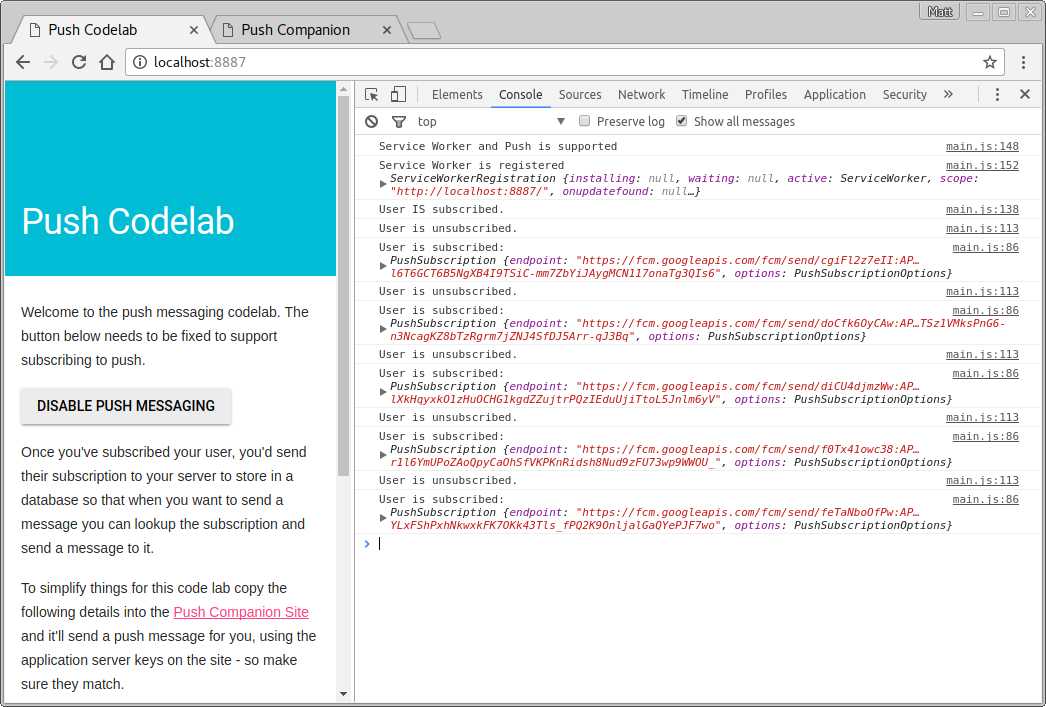
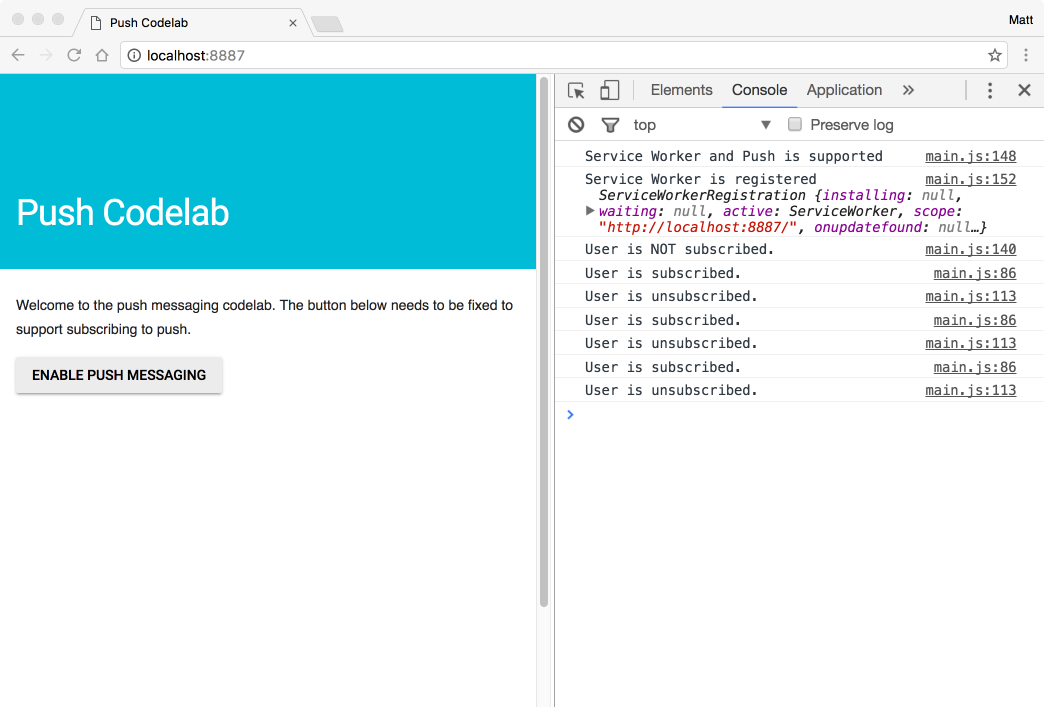
Removing printing of subscription to avoid developer confusion

Changed region(s): [[0.0, 0.0, 1.0, 1.0]]

diff --git a/src/content/en/fundamentals/getting-started/codelabs/push-notifications/index.md b/src/content/en/fundamentals/getting-started/codelabs/push-notifications/index.md
@@ -58,11 +58,11 @@ While you're free to use your own web server, this codelab is designed to work w
 
 [Link](https://chrome.google.com/webstore/detail/web-server-for-chrome/ofhbbkphhbklhfoeikjpcbhemlocgigb)
 
-After installing the Web Server for Chrome app, click on the Apps shortcut on the bookmarks bar: 
+After installing the Web Server for Chrome app, click on the Apps shortcut on the bookmarks bar:
 
 ![a80b29d5e878df22.png](img/a80b29d5e878df22.png)
 
-In the ensuing window, click on the Web Server icon: 
+In the ensuing window, click on the Web Server icon:
 
 ![dc07bbc9fcfe7c5b.png](img/dc07bbc9fcfe7c5b.png)
 
@@ -270,7 +270,7 @@ function subscribeUser() {
     applicationServerKey: applicationServerKey
   })
   .then(function(subscription) {
-    console.log('User is subscribed:', subscription);
+    console.log('User is subscribed.');
 
     updateSubscriptionOnServer(subscription);
 
@@ -314,7 +314,7 @@ swRegistration.pushManager.subscribe({
   applicationServerKey: applicationServerKey
 })
 .then(function(subscription) {
-  console.log('User is subscribed:', subscription);
+  console.log('User is subscribed.');
 
   updateSubscriptionOnServer(subscription);
 
@@ -356,7 +356,7 @@ If you go back to your web app and try clicking the button you should see a perm
 
 ![5b8a7e9905f2237b.png](img/5b8a7e9905f2237b.png)
 
-If you grant the permission you should see the console print `User is subscribed:` with the `PushSubscription`, the button's text will change to ‘Disable Push Messaging'  and you'll be able to view the subscription as JSON at the bottom of the page.
+If you grant the permission you should see the console print "User is subscribed.", the button's text will change to ‘Disable Push Messaging'  and you'll be able to view the subscription as JSON at the bottom of the page.
 
 ![bfdc9f92e001934a.png](img/bfdc9f92e001934a.png)
 
@@ -643,7 +643,7 @@ You should be able to press the  *Enable Push Messaging*  /  *Disable Push Messa
 
 Congratulations on completing this codelab!
 
-This code lab has shown you how to get up and running with adding push to your web app. If you want to learn more about what web notifications can do,  [check out theses docs](/web/fundamentals/engage-and-retain/push-notifications/). 
+This code lab has shown you how to get up and running with adding push to your web app. If you want to learn more about what web notifications can do,  [check out theses docs](/web/fundamentals/engage-and-retain/push-notifications/).
 
 If you are looking to deploy push on your site, you may be interested in adding support for older / non-standards compliant browsers which use GCM,  [learn more here](https://web-push-book.gauntface.com/chapter-06/01-non-standards-browsers/).
 
@@ -664,5 +664,5 @@ If you are looking to deploy push on your site, you may be interested in adding 
 
 
 ## Found an issue, or have feedback? {: .hide-from-toc }
-Help us make our code labs better by submitting an 
+Help us make our code labs better by submitting an
 [issue](https://github.com/googlechrome/push-notifications/issues) today. And thanks!
